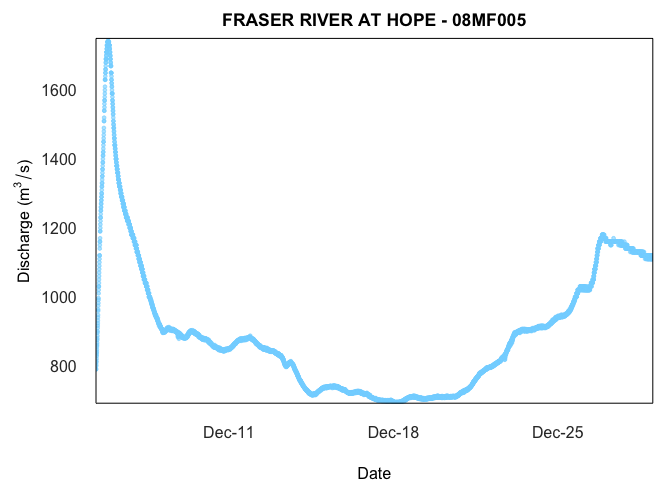
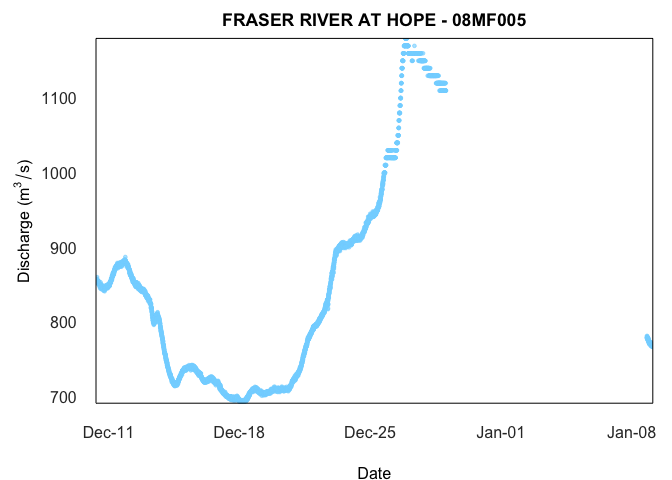
update README

diff --git a/README.md b/README.md
@@ -4,9 +4,7 @@
 
 <!-- badges: start -->
 
-[![License](https://img.shields.io/badge/License-Apache%202.0-blue.svg)](https://opensource.org/license/apache-2-0/)
-[![Coverage
-status](https://codecov.io/gh/ropensci/tidyhydat/branch/master/graph/badge.svg)](https://codecov.io/github/ropensci/tidyhydat?branch=master)
+[![License](https://img.shields.io/badge/License-Apache%202.0-blue.svg)](https://opensource.org/license/apache-2-0/)ß
 [![R build
 status](https://github.com/ropensci/tidyhydat/workflows/R-CMD-check/badge.svg)](https://github.com/ropensci/tidyhydat/actions)
 
@@ -86,22 +84,22 @@ the same conventions discussed above. Using `realtime_dd()` we can
 easily select specific stations by supplying a station of interest:
 
     realtime_dd(station_number = "08MF005")
-    #>   Queried on: 2024-01-04 04:58:30.685797 (UTC)
-    #>   Date range: 2023-12-05 to 2023-12-29 
-    #> # A tibble: 13,658 × 8
+    #>   Queried on: 2024-01-09 05:08:33.18974 (UTC)
+    #>   Date range: 2023-12-10 to 2024-01-09 
+    #> # A tibble: 10,972 × 8
     #>    STATION_NUMBER PROV_TERR_STATE_LOC Date               
     #>    <chr>          <chr>               <dttm>             
-    #>  1 08MF005        BC                  2023-12-05 08:00:00
-    #>  2 08MF005        BC                  2023-12-05 08:05:00
-    #>  3 08MF005        BC                  2023-12-05 08:10:00
-    #>  4 08MF005        BC                  2023-12-05 08:15:00
-    #>  5 08MF005        BC                  2023-12-05 08:20:00
-    #>  6 08MF005        BC                  2023-12-05 08:25:00
-    #>  7 08MF005        BC                  2023-12-05 08:30:00
-    #>  8 08MF005        BC                  2023-12-05 08:35:00
-    #>  9 08MF005        BC                  2023-12-05 08:40:00
-    #> 10 08MF005        BC                  2023-12-05 08:45:00
-    #> # ℹ 13,648 more rows
+    #>  1 08MF005        BC                  2023-12-10 08:00:00
+    #>  2 08MF005        BC                  2023-12-10 08:05:00
+    #>  3 08MF005        BC                  2023-12-10 08:10:00
+    #>  4 08MF005        BC                  2023-12-10 08:15:00
+    #>  5 08MF005        BC                  2023-12-10 08:20:00
+    #>  6 08MF005        BC                  2023-12-10 08:25:00
+    #>  7 08MF005        BC                  2023-12-10 08:30:00
+    #>  8 08MF005        BC                  2023-12-10 08:35:00
+    #>  9 08MF005        BC                  2023-12-10 08:40:00
+    #> 10 08MF005        BC                  2023-12-10 08:45:00
+    #> # ℹ 10,962 more rows
     #> # ℹ 5 more variables: Parameter <chr>, Value <dbl>,
     #> #   Grade <chr>, Symbol <chr>, Code <chr>
 
@@ -113,33 +111,24 @@ Or we can use `realtime_ws`:
       start_date = Sys.Date() - 14,
       end_date = Sys.Date()
     )
-    #> Warning: 2823 parsing failures.
-    #> row                  col               expected                 actual         file
-    #>   1 Approval/Approbation no trailing characters Provisional/Provisoire <raw vector>
-    #>   2 Approval/Approbation no trailing characters Provisional/Provisoire <raw vector>
-    #>   3 Approval/Approbation no trailing characters Provisional/Provisoire <raw vector>
-    #>   4 Approval/Approbation no trailing characters Provisional/Provisoire <raw vector>
-    #>   5 Approval/Approbation no trailing characters Provisional/Provisoire <raw vector>
-    #> ... .................... ...................... ...................... ............
-    #> See problems(...) for more details.
     #> All station successfully retrieved
     #> All parameters successfully retrieved
-    #> # A tibble: 2,823 × 10
+    #> # A tibble: 1,323 × 10
     #>    STATION_NUMBER Date                Name_En    Value Unit 
     #>    <chr>          <dttm>              <chr>      <dbl> <chr>
-    #>  1 08MF005        2023-12-20 00:00:00 Water tem…  5.03 °C   
-    #>  2 08MF005        2023-12-20 01:00:00 Water tem…  5.05 °C   
-    #>  3 08MF005        2023-12-20 02:00:00 Water tem…  5.04 °C   
-    #>  4 08MF005        2023-12-20 03:00:00 Water tem…  5.04 °C   
-    #>  5 08MF005        2023-12-20 04:00:00 Water tem…  5.04 °C   
-    #>  6 08MF005        2023-12-20 05:00:00 Water tem…  5.03 °C   
-    #>  7 08MF005        2023-12-20 06:00:00 Water tem…  5.03 °C   
-    #>  8 08MF005        2023-12-20 07:00:00 Water tem…  5.02 °C   
-    #>  9 08MF005        2023-12-20 08:00:00 Water tem…  5.02 °C   
-    #> 10 08MF005        2023-12-20 09:00:00 Water tem…  5.03 °C   
-    #> # ℹ 2,813 more rows
+    #>  1 08MF005        2023-12-25 00:00:00 Water tem…  5.14 °C   
+    #>  2 08MF005        2023-12-25 01:00:00 Water tem…  5.12 °C   
+    #>  3 08MF005        2023-12-25 02:00:00 Water tem…  5.11 °C   
+    #>  4 08MF005        2023-12-25 03:00:00 Water tem…  5.1  °C   
+    #>  5 08MF005        2023-12-25 04:00:00 Water tem…  5.1  °C   
+    #>  6 08MF005        2023-12-25 05:00:00 Water tem…  5.07 °C   
+    #>  7 08MF005        2023-12-25 06:00:00 Water tem…  5.06 °C   
+    #>  8 08MF005        2023-12-25 07:00:00 Water tem…  5.04 °C   
+    #>  9 08MF005        2023-12-25 08:00:00 Water tem…  5.02 °C   
+    #> 10 08MF005        2023-12-25 09:00:00 Water tem…  5    °C   
+    #> # ℹ 1,313 more rows
     #> # ℹ 5 more variables: Grade <chr>, Symbol <chr>,
-    #> #   Approval <int>, Parameter <dbl>, Code <chr>
+    #> #   Approval <chr>, Parameter <dbl>, Code <chr>
 
 ## Compare realtime\_ws and realtime\_dd
 
